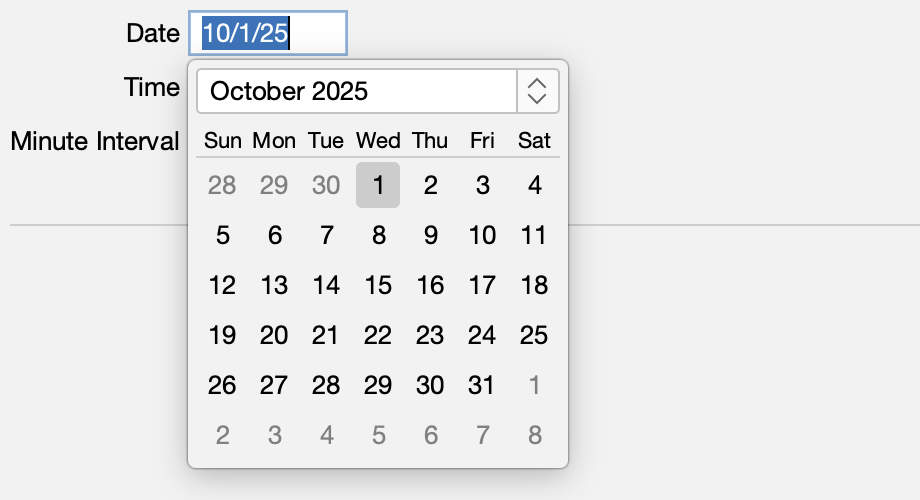
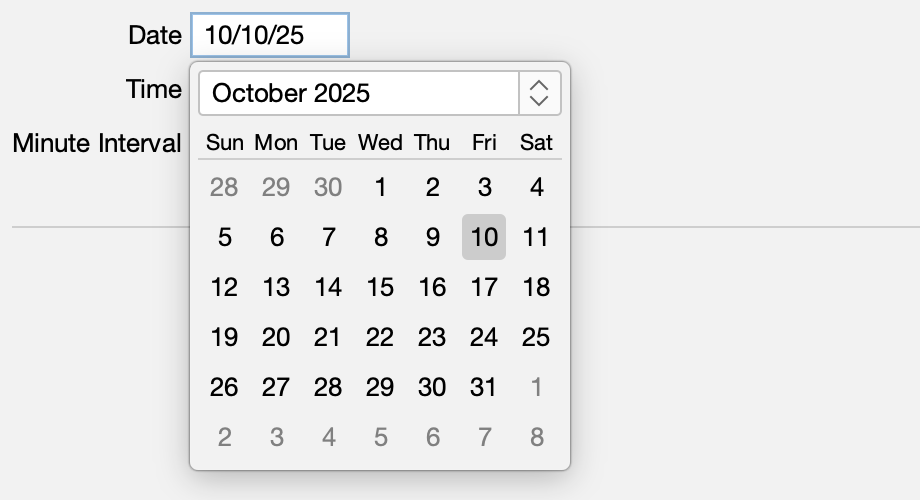
Update date and time pickers.

diff --git a/sierra/src/main/java/org/httprpc/sierra/DatePicker.java b/sierra/src/main/java/org/httprpc/sierra/DatePicker.java
@@ -235,8 +235,6 @@ public class DatePicker extends TemporalPicker {
                         setText(dateFormatter.format(DatePicker.this.date));
                     }
 
-                    selectAll();
-
                     date = null;
 
                     return true;

diff --git a/sierra/src/main/java/org/httprpc/sierra/TimePicker.java b/sierra/src/main/java/org/httprpc/sierra/TimePicker.java
@@ -159,8 +159,6 @@ public class TimePicker extends TemporalPicker {
                         setText(timeFormatter.format(TimePicker.this.time));
                     }
 
-                    selectAll();
-
                     time = null;
 
                     return true;
